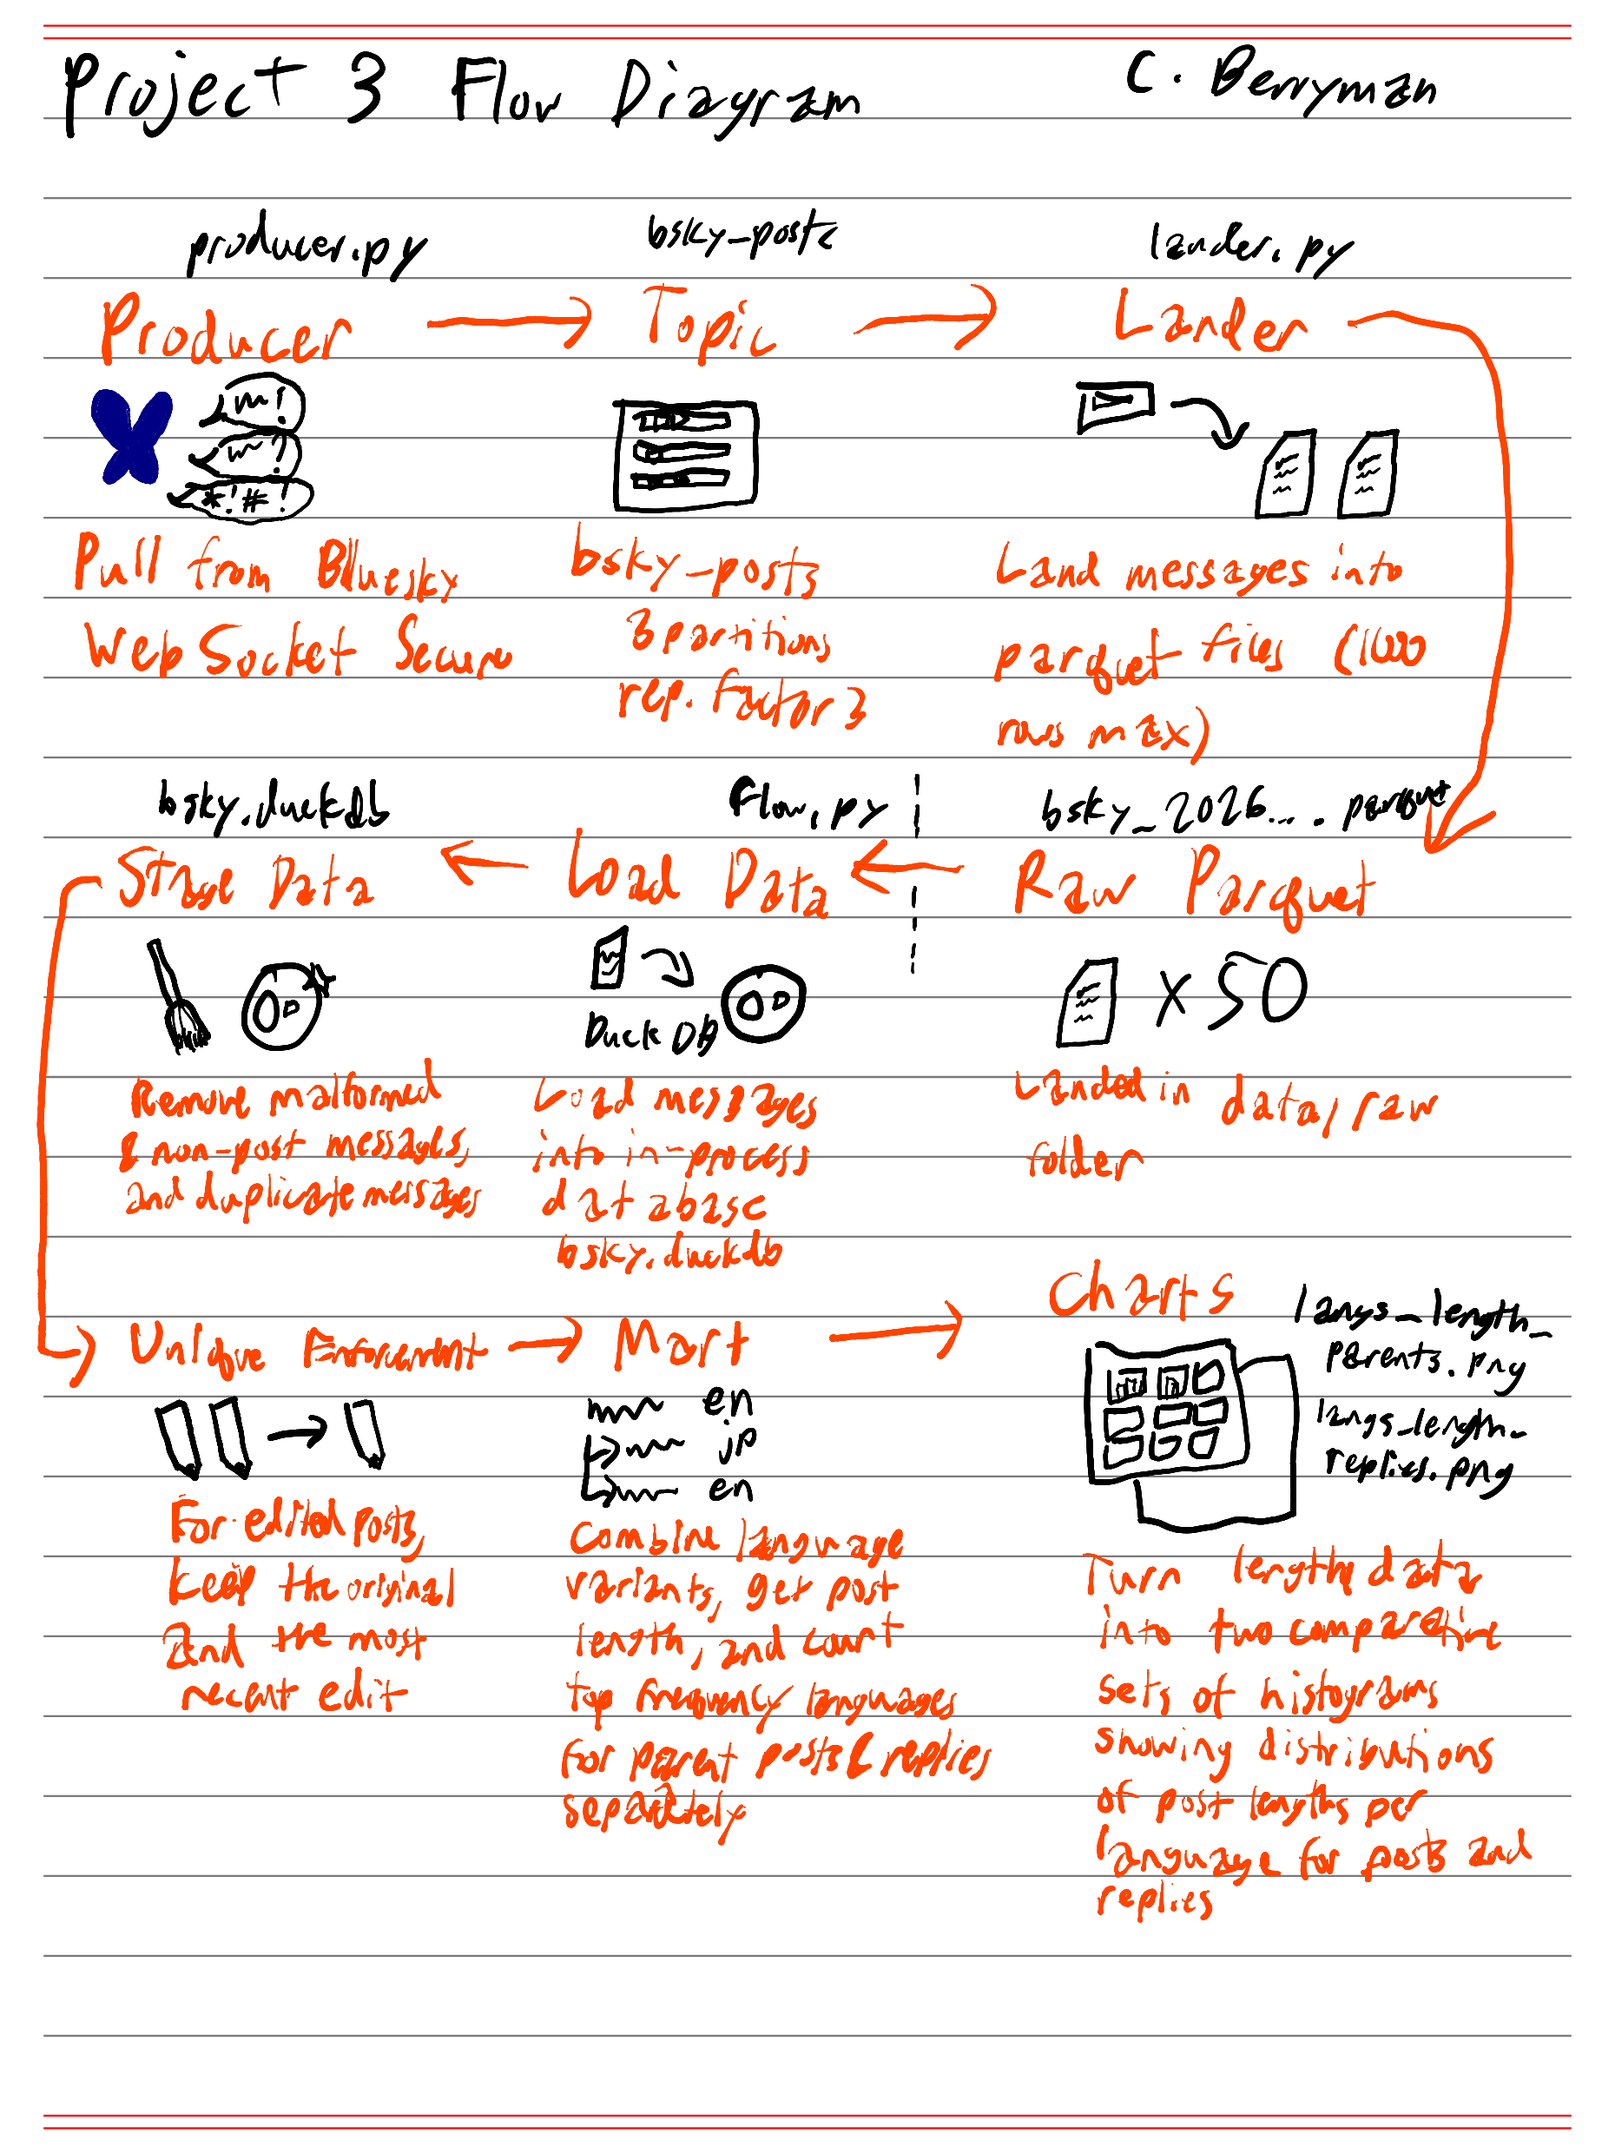
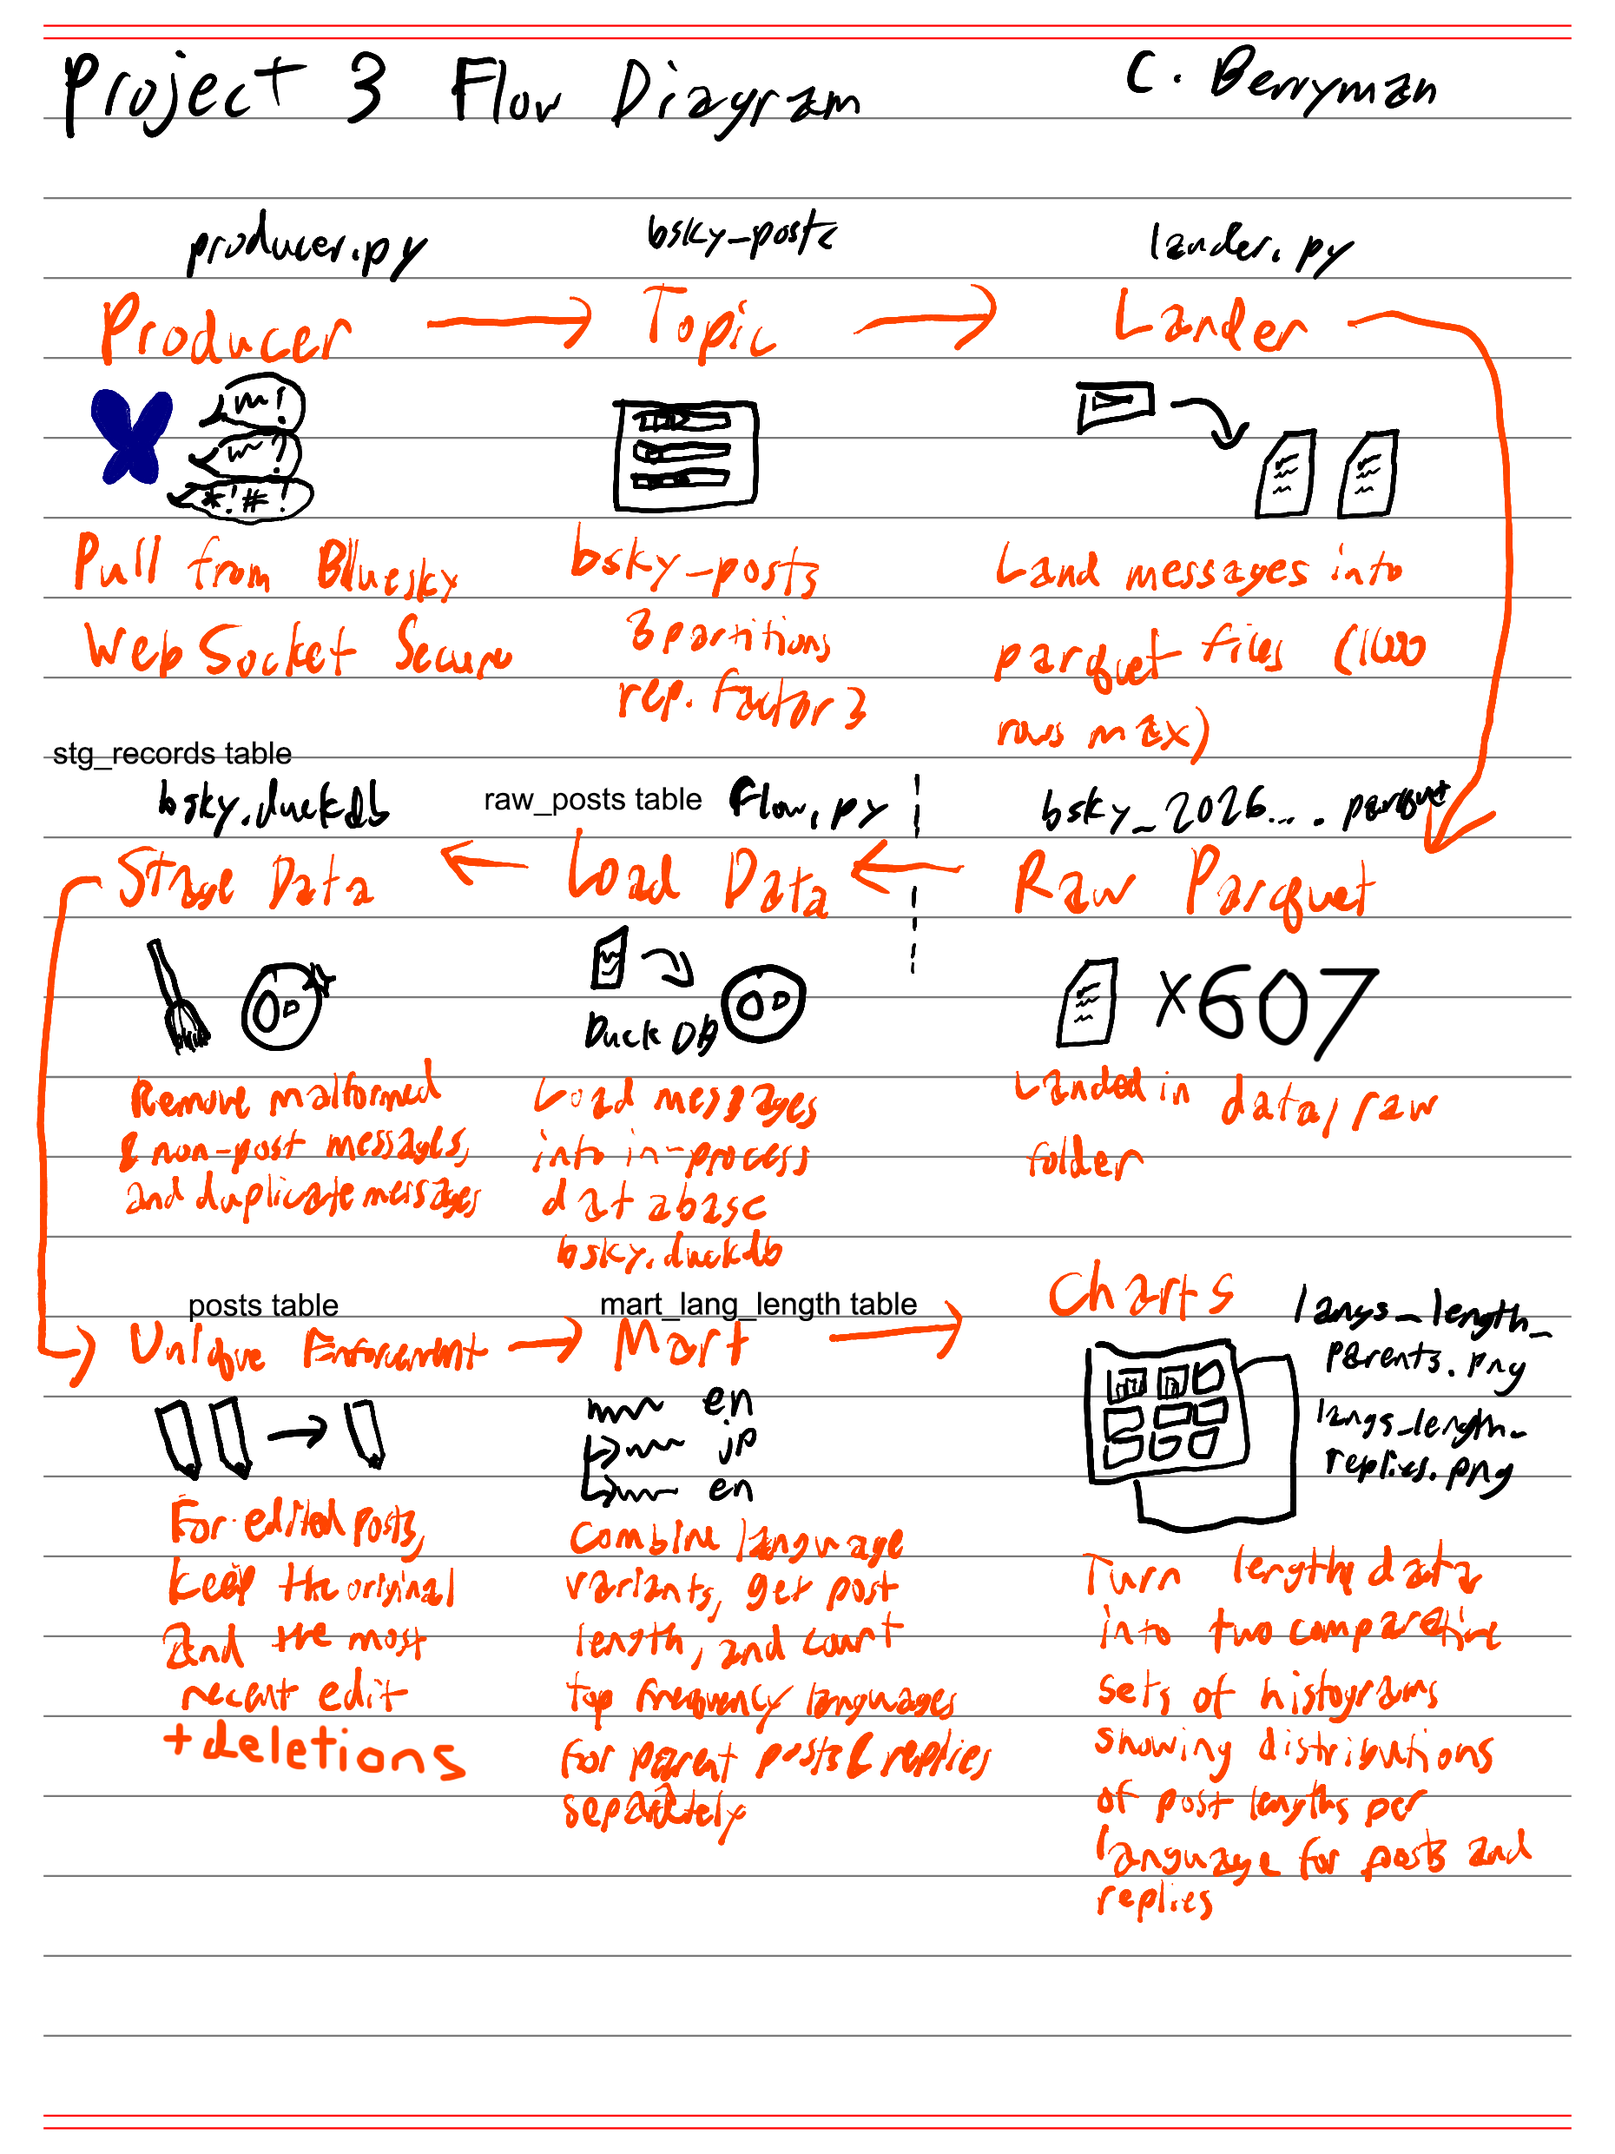
finishing touches

diff --git a/project3/flow.py b/project3/flow.py
@@ -25,7 +25,7 @@ CHART = "charts/langs_length_{kind}" + TAG + ".png"   # kind = "parents" or "rep
 
 @task(retries=2, retry_delay_seconds=5)
 def load_raw():
-    with duckdb.connect(DB) as con:  # the flow is the ONLY writer of quakes.duckdb
+    with duckdb.connect(DB) as con:  # the flow is the ONLY writer of bsky.duckdb
         con.execute(f"CREATE OR REPLACE TABLE raw_posts AS SELECT * FROM read_parquet('{RAW}')")
         return con.execute("SELECT count(*) FROM raw_posts").fetchone()[0]
 
@@ -64,7 +64,7 @@ def entities():
         return con.execute("SELECT count(*) FROM posts").fetchone()[0]
 
 TOP_LANGS = 12  # 4x3 grid; the long tail of languages has too few posts to histogram
-BIN = 20        # characters per bin -> 15 bins across 0..300
+BIN = 20        # graphemes per bin -> 15 bins across 0..300
 
 
 @task

diff --git a/project3/lander.py b/project3/lander.py
@@ -3,8 +3,8 @@
 A batch is written when it has 1000 records or is 60 seconds old.
 Offsets are stored only AFTER the file exists: at-least-once.
 
-  python quakes_lander.py
-  python quakes_lander.py crash   # experiment: crash after the first file, before storing offsets
+  python lander.py
+  python lander.py crash   # experiment: crash after the first file, before storing offsets
 """
 import json
 import os
@@ -28,12 +28,6 @@ SCHEMA = """kafka_partition INTEGER, kafka_offset BIGINT, kafka_key VARCHAR,
     time_us BIGINT, lang VARCHAR, text VARCHAR,
     landed_at TIMESTAMP, raw VARCHAR"""
 
-
-def number(x):
-    try:
-        return float(x)
-    except (TypeError, ValueError):
-        return None
 
 
 def to_row(msg):

diff --git a/project3/producer.py b/project3/producer.py
@@ -9,7 +9,6 @@ import json
 import logging
 import sys
 import time
-from datetime import datetime, timedelta, timezone
 
 import requests
 from quixstreams import Application
@@ -22,7 +21,7 @@ WSS_URL = "wss://jetstream2.us-east.bsky.network/subscribe?wantedCollections=app
 
 def send(producer, message):
     """One Kafka record per message. Key = the event id, so every
-    version of the same earthquake goes to the same partition, in order."""
+    version of the same post goes to the same partition, in order."""
     commit = message.get('commit', {})
     action = commit.get('operation', message.get('kind', 'unknown'))
     did, rkey = message.get('did'), commit.get('rkey')

diff --git a/project3/README.md b/project3/README.md
@@ -5,7 +5,7 @@
 
 ## Data source
 
-Push: Bluesky. Pulls activity from Bluesky, a social networking service. No account, key, or user-agent are needed. A single message contains details about the user, action type, and data about the action, usually text if it was a post. Data comes out of a stream, not an archive.
+Push: Bluesky, secure WebSocket (wss://jetstream2.us-east.bsky.network/subscribe?wantedCollections=app.bsky.feed.post). Pulls activity from Bluesky, a social networking service. No account, key, or user-agent are needed. A single message contains details about the user, action type, and data about the action, usually text if it was a post. Data comes out of a stream, not an archive.
 
 ## How to run
 
@@ -51,18 +51,16 @@ python flow.py                  # runs the flow on the entire dataset.
 
 ## Design decisions
 
-Answer each in 2-4 sentences, in your own words, with your own numbers.
-
 1. **Key and partitions.** My key is a combination of 2 items in the message: did and rkey. The two of them ensure that operations linked to the same post (create, edit, delete) all land in the same partition and are read in the correct chronological order. If information about the same post was landed in different partitions (ex. including operation in the key), an edit could be read before the original post on accident. Events with no rkey (account changes) are just did as their key, so those also stay in order for individual accounts. Using did alone would make splits by account instead of by post, which would make bot accounts with high traffic potentially overload a partition. Many other keys would go wrong since they don't appear in every post action, but these two appear guaranteed in any commit involving a parent or reply post, which is the target of the research question.
 2. **Batch size and time.** Batch size is 1000, with a 1-minute time limit. The post volume makes the 1000 mark be hit at almost every opportunity. 64.64 messages per second -> 232704 per hour, which is 233 files. That's a lot. I probably should have set the limit higher.
-3. **Offsets after the file.** A crash sets the offset back to the point where it started reading that file. This is okay, since SQL selection in the flow eliminates duplicates with SELECT DISTINCT.
+3. **Offsets after the file.** A crash sets the offset back to the point where it started reading that file. My chaos card for a crash in the middle of writing had a whole file rewritten with twice as many raw records as unique ones (1190 compared to 595). This is okay, since SQL selection in the flow eliminates duplicates with SELECT DISTINCT.
 4. **Duplicates.** Same partition and offset are the same Kafka record. These are removed in the flow by the staging step, which runs SELECT DISTINCT on the data without the landing time, which is the only difference between the same Kafka record in two places. A post with the same did, rkey, operation, and time_us is the same action. These are cleared out in the entities step of the flow, as only one value with the same did, rkey, and operation is kept: the latest one. The SQL is a bit more complicated for this one: 
 ```sql 
 QUALIFY row_number() OVER (PARTITION BY did, rkey, operation ORDER BY time_us DESC, kafka_offset DESC) = 1 
 ``` 
-
-5. **Windows and time.** The time column is the event time. However, the division of data for my research question is based on a comparison between languages of messages, not changes between a time frame. The time window for this problem is just one window, being the entire time I was collecting messages. Time still needs to be tracked, as filtering is done in the unique entities part of the flow based on time to only keep the most recent copy of an event, removing duplicates and only keeping the most recent edit of a post.
-6. **Ten times the volume.** I experienced this firsthand, the lander runs quite slowly with a lot of records backlogged. It likely wouldn't be able to keep up with 10x message volume. My first plan with higher message volume would be to read more messages at maximum so that fewer files need to be written. Since the producer doesn't print every message, it could likely still keep up. The flow isn't tethered to production, as it only reads already fully filled files once, so it would not break with higher message volume.
+With my large sample, 606606 raw records became 598357 unique Kafka records and then 598,187 unique entities after processing.
+1. **Windows and time.** The time column is the event time. However, the division of data for my research question is based on a comparison between languages of messages, not changes between a time frame. The time window for this problem is just one window, being the entire time I was collecting messages. Time still needs to be tracked, as filtering is done in the unique entities part of the flow based on time to only keep the most recent copy of an event, removing duplicates and only keeping the most recent edit of a post.
+2. **Ten times the volume.** I experienced this firsthand, the lander runs quite slowly with a lot of records backlogged. It likely wouldn't be able to keep up with 10x message volume. My first plan with higher message volume would be to read more messages at maximum so that fewer files need to be written. Since the producer doesn't print every message, it could likely still keep up. The flow isn't tethered to production, as it only reads already fully filled files once, so it would not break with higher message volume.
 
 
 ## Chaos round
@@ -97,7 +95,7 @@ From the flow log on the full data (screenshot in `docs/`):
 
 ## Challenges / Obstacles
 
-The sheer volume of messages was a little tough to manage at one point in the project. As you can probably tell from the number of parquet files and the number of records I have, I accidentally left the producer on while I was doing other things and pulled 600000 messages that all needed to be landed. While that only took a few minutes to land and clear the backlog, I needed to turn the producer off to catch up. If this was a real flow that needed continuous production, the clog of messages could have been disastrous for the lander and for file clutter. If I were to do it again, I would try to parse more messages at once so that there would be less writing overhead and fewer files. The messages also had a bit of a confusing ID layout that made selecting a key somewhat difficult, since there are some ID columns that are only present on certain types of messages. I made a copy of the probing script with edits to get statistics about what commit types (create, edit, delete) were missing certain keys. This let me select columns for keys that were present in all messages relevant to my question.
+Reconnection and recovery were an interesting challenge. I hadn't used a cursor as a pointer before, so I had to refactor my whole producer to keep trying to connect and save where it last dropped. Alongside that, the sheer volume of messages was a little tough to manage at one point in the project. As you can probably tell from the number of parquet files and the number of records I have, I accidentally left the producer on while I was doing other things and pulled 600000 messages that all needed to be landed. While that only took a few minutes to land and clear the backlog, I needed to turn the producer off to catch up. If this was a real flow that needed continuous production, the clog of messages could have been disastrous for the lander and for file clutter. If I were to do it again, I would try to parse more messages at once so that there would be less writing overhead and fewer files. The messages also had a bit of a confusing ID layout that made selecting a key somewhat difficult, since there are some ID columns that are only present on certain types of messages. I made a copy of the probing script with edits to get statistics about what commit types (create, edit, delete) were missing certain keys. This let me select columns for keys that were present in all messages relevant to my question.
 
 ## Analysis
 

diff --git a/project3/SOURCE_CARD.md b/project3/SOURCE_CARD.md
@@ -2,15 +2,15 @@
 
 Fill this in during Session 1 (Thu 05 Nov) with **measured** numbers from `python probe.py <source>`. Then tick the self-check in section 7 **before** you build the producer: it is how you check that your source will work for the whole project.
 
-**Name:**
-**Date:**
+**Name: Cameron Berryman**
+**Date: 16 Nov 2026**
 
 ## 1. The source
-- Source and URL:
+- Source and URL: Bluesky (Secure Websocket, wss://jetstream2.us-east.bsky.network/subscribe?wantedCollections=app.bsky.feed.post)
 - Method (WebSocket push, REST polling or REST history pull): WS Push
   - FILTER BY commit.collection == "app.bsky.feed.post" for accepted items. Keep an eye out for post deletions.
 - Account, key or User-Agent needed: Not applicable, no account needed and access is free
-- Limits I know about (rate limits, paging, reconnects):
+- Limits I know about (rate limits, paging, reconnects): No rate limits, limited access out of courtesy. Reconnection targets an older message using a cursor (`?cursor=`). The maximum page size is 1 day for the firehose, so there is a 1-day replay window.
 
 ## 2. One message
 
@@ -69,7 +69,7 @@ Fill this in during Session 1 (Thu 05 Nov) with **measured** numbers from `pytho
 - What makes two records **the same Kafka record**? (landed twice by the lander)
   - Same partition and offset
 - What makes two records **the same thing** (the same trade, post, aircraft position)?
-  - Same did, rid, operation and time_us. CID can't be used because that's missing from deletions. 
+  - Same did, rkey, operation and time_us. CID can't be used because that's missing from deletions. 
 - If the same thing can arrive in several versions, which one do I keep?
 
 ## 6. Research question (draft)

diff --git a/project3/docs/README.md b/project3/docs/README.md
@@ -3,8 +3,9 @@
 Evidence the grader looks at. Save screenshots here (PNG or JPG) and show or link them from your README.
 
 Required (at least these three):
-1. `topic.png`: Redpanda Console (`http://127.0.0.1:8080`) showing your topic with 3 partitions and its message count (checkpoint B).
+1. `topic.png`: Redpanda Console (`http://127.0.0.1:8080`) showing your topic with 3 partitions and its message count (checkpoint B).  
 ![](topic.png)
+(This screenshot was taken before my incident where I left the producer on for too long, making hundreds of thousands of records.)
 2. `flow_log.png`: the terminal output of your flow on the full data, with the four numbers (checkpoint E).
 ![](flow_log.png)
 3. `prefect_dashboard.png`: a completed flow run in the Prefect dashboard (checkpoint E).  

diff --git a/project3/PROGRESS.md b/project3/PROGRESS.md
@@ -10,18 +10,18 @@ Add to the entry at the end of every class, and whenever you stop working. Short
 
 ## Session 2 · Mon 09 Nov
 - Done: Tested producer and lander scripts and started tracking progress more effectively
-- Raw records so far: 5k?
+- Raw records so far: 5k
 - Next: Write prefect flow with class instructions
 - Blocked:
 
 ## Session 3 · Thu 12 Nov
 - Done: Collected data, written flow.py and created charts
-- Raw records so far: 600k+
+- Raw records so far: 600k
 - Next: Confirm project guidelines, rubric, etc.
 - Blocked:
 
 ## Session 4 · Mon 16 Nov
-- Done:
-- Raw records so far: 600k+
-- Next:
+- Done: Peer review finished, finishing touches on grading documents, revisions to setup instructions
+- Raw records so far: 600k
+- Next: Turn in
 - Blocked:
